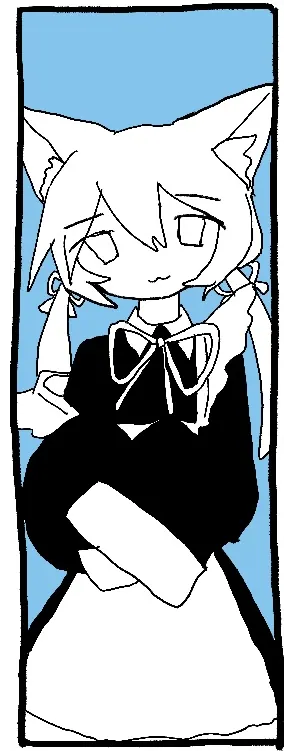
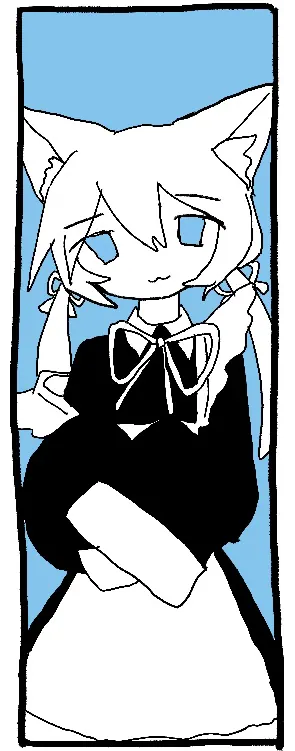
めいどちゃんのボタン画像を差し替え
Claude-Session: https://claude.ai/code/session_017nWyPJUaovJCBe1EhNRd1c

Changed region(s): [[0.6102, 0.2756, 0.7017, 0.3369], [0.2746, 0.3063, 0.3966, 0.3675]]

diff --git a/index.html b/index.html
@@ -170,7 +170,7 @@ a:focus-visible,button:focus-visible{outline:3px solid var(--link);outline-offse
 
 <script>
 /* ============ データ（ここだけ編集すれば更新できます） ============ */
-const IMGV = '20261025b';                     // 画像を差し替えたらこの値を変える（ブラウザのキャッシュ対策）
+const IMGV = '20261026a';                     // 画像を差し替えたらこの値を変える（ブラウザのキャッシュ対策）
 const EXTS = ['jpg','png','webp'];           // 画像の拡張子を順に試す
 const PAGES = [['home','HOME'],['download','DOWNLOAD'],['character','CHARACTER'],['gallery','GALLERY'],['event','EVENT'],['about','ABOUT'],['contact','CONTACT・LINK']];
 
